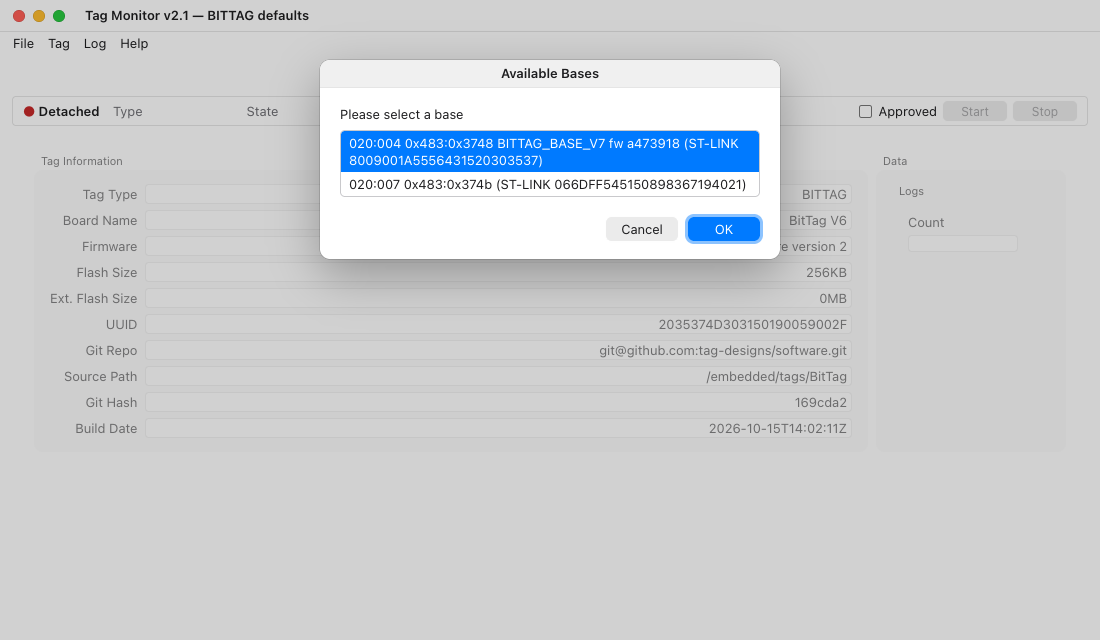
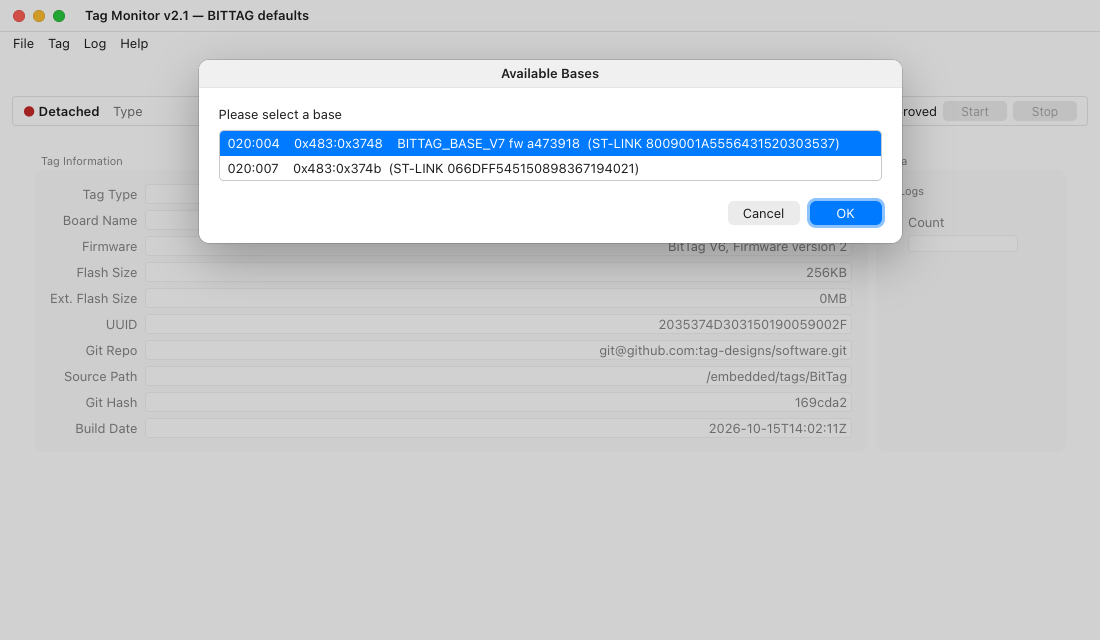
ui-kit: list rows keep their spacing; Tag Programmer's log fits the window

Changed region(s): [[0.1545, 0.0938, 0.8345, 0.4375]]

diff --git a/host/ui-kit/kit.js b/host/ui-kit/kit.js
@@ -444,7 +444,8 @@
    *
    * A click selects a row and a double-click chooses it at once. `current`
    * preselects a row; with none (or an invalid one) the first row is
-   * selected, so OK always yields an index.
+   * selected, so OK always yields an index. The box widens, up to 760 px,
+   * for long rows such as a base's description, so they need not wrap.
    *
    * @param {string} title
    * @param {string} label Text above the list.
@@ -462,8 +463,13 @@
     }, text));
     list.append(...rows);
     const body = el("div", {}, el("div", {}, label), list);
+    // The widest row in the page's font, plus the dialog's and the row's
+    // padding (about 90 px).
+    const ctx = document.createElement("canvas").getContext("2d");
+    ctx.font = getComputedStyle(document.body).font;
+    const widest = Math.max(0, ...items.map((t) => ctx.measureText(String(t)).width));
     const p = dialog({
-      title, body, width: 460,
+      title, body, width: Math.min(760, Math.max(460, Math.ceil(widest) + 90)),
       buttons: [
         { label: "Cancel", value: null, cancel: true },
         { label: "OK", value: "ok", default: true, enter: true },

diff --git a/host/ui-kit/kit.css b/host/ui-kit/kit.css
@@ -437,7 +437,7 @@ html, body {
 }
 .kit-dialog {
   min-width: 320px;
-  max-width: min(640px, calc(100vw - 40px));
+  max-width: min(760px, calc(100vw - 40px));
   background: var(--dialog-bg);
   border-radius: 10px;
   box-shadow: var(--dialog-shadow);
@@ -472,7 +472,8 @@ html, body {
   max-height: 220px;
   overflow: auto;
 }
-.kit-list-item { padding: 4px 8px; }
+/* pre-wrap keeps the runs of spaces engines use to line up columns. */
+.kit-list-item { padding: 4px 8px; white-space: pre-wrap; }
 .kit-list-item.selected { background: var(--accent); color: var(--accent-text); }
 
 /* ---- Log drawer ------------------------------------------------------- */

diff --git a/host/applications/tagprogram-rs/ui/app.css b/host/applications/tagprogram-rs/ui/app.css
@@ -24,6 +24,15 @@
   min-height: 389px;
 }
 .panels .station { flex: 3; }
+
+/* With the log open the panels shrink to their contents and the log takes
+   the height they give up, so it fits the window (qtprogram grew the window
+   instead). */
+.panels.compact { flex: none; min-height: 0; }
+.panels.compact #checks { grid-auto-rows: auto; row-gap: 6px; }
+.panels.compact .kit-status-text { min-height: 0; }
+.panels.compact ~ .kit-log { min-height: 120px; }
+.panels.compact ~ .kit-log textarea { min-height: 80px; }
 .panels .tag { flex: 2; }
 
 /* The eight check rows share the panel's height, as Qt's grid does. */

diff --git a/host/applications/tagprogram-rs/ui/app.js b/host/applications/tagprogram-rs/ui/app.js
@@ -168,7 +168,7 @@
         <span id="target-note">${t.note}</span>
       </div>
 
-      <div class="panels">
+      <div class=${"panels" + (ui.logOpen ? " compact" : "")}>
         <${Group} class="station" title="Station"><${StatusGrid} id="checks" rows=${checkRows(s.checks, s.rowButtons)}/><//>
         <${Group} class="tag" title="Tag"><${TagPanel} t=${s.tag}/><//>
       </div>
